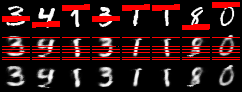
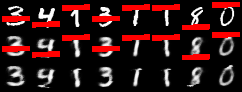
PSMVAE_b works but is ugly

Changed region(s): [[0.0, 0.5, 1.0, 0.6522], [0.0, 0.3478, 1.0, 0.4565]]

diff --git a/src/utils.py b/src/utils.py
@@ -215,8 +215,8 @@ def save_image_reconstructions(recon_batch, X, M, qy, epoch, image_dim_0, result
     n = min(X.shape[0], 8)
     if qy != None:
         classes_train = qy.argmax(1)
-        # recon_sample_X = torch.einsum("ik, kij -> ij", [qy[:n], recon_batch['xobs'][:, :n]])
-        recon_sample_X = torch.stack([recon_batch['xobs'][classes_train[i], i, :] for i in range(n)], 0)
+        recon_sample_X = torch.einsum("ik, kij -> ij", [qy[:n], recon_batch['xobs'][:, :n]])
+        # recon_sample_X = torch.stack([recon_batch['xobs'][classes_train[i], i, :] for i in range(n)], 0)
     else:
         recon_sample_X = recon_batch['xobs'][:, :n]
 

diff --git a/src/models/miwae.py b/src/models/miwae.py
@@ -15,7 +15,6 @@ import numpy as np
 import tensorflow as tf
 import tensorflow_probability as tfp
 import keras
-import matplotlib.pyplot as plt
 import pandas as pd
 import time
 from loss_funcs import rmse_loss
